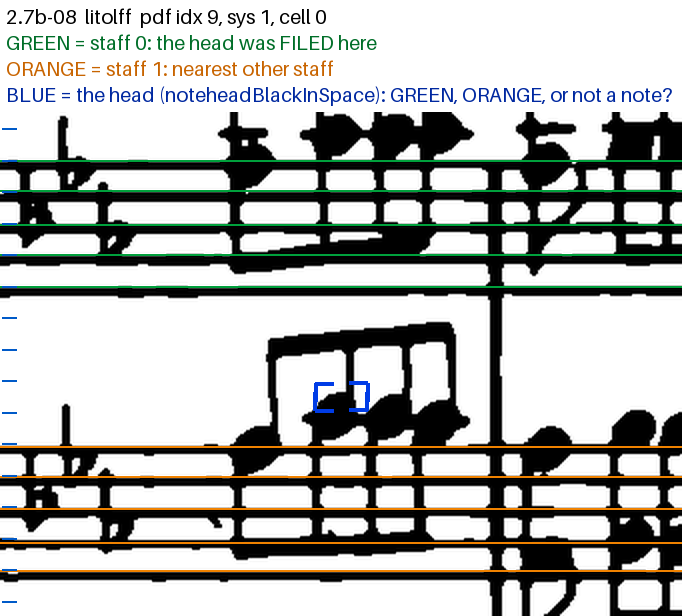
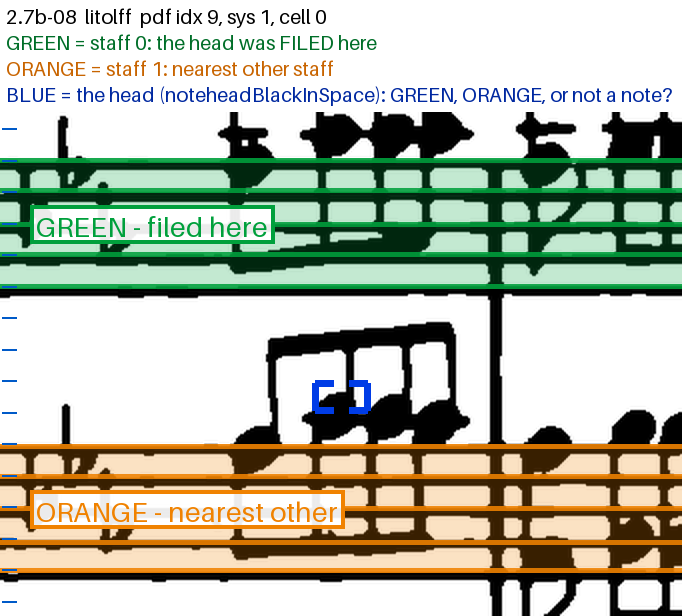
2.7b crops re-rendered legibly (staff bands + labels; same 24 heads, same seed) + a numbered contact sheet: #01-16 Litolff 2.7b-01..16, #17-24 Brahms 2.7b-brk-01..08

diff --git a/benchmarks/omr-accidental-2026-09/probe/crop_nearer_staff.py b/benchmarks/omr-accidental-2026-09/probe/crop_nearer_staff.py
@@ -189,13 +189,29 @@ def main() -> int:
         Z = 2
         crop = im.crop((cx0, cy0, cx1, cy1)).resize(
             ((cx1 - cx0) * Z, (cy1 - cy0) * Z), Image.LANCZOS)
+        # ⚠ Sean, 2026-09-28: 2-px coloured lines were unreadable. Each
+        # staff is a TRANSLUCENT BAND with thick lines and a large boxed
+        # label inside it (the o26b style, `crop_losers_2_6b.make_crop`).
+        overlay = Image.new("RGBA", crop.size, (0, 0, 0, 0))
+        od = ImageDraw.Draw(overlay)
+        big = ImageFont.load_default(size=max(28, int(sp_f * Z * 0.8)))
+        for lines_, rgb, label in ((lf, (0, 160, 60), "GREEN - filed here"),
+                                   (ln, (240, 130, 0), "ORANGE - nearest other")):
+            if not lines_:
+                continue
+            top, bot = (min(lines_) - cy0) * Z, (max(lines_) - cy0) * Z
+            od.rectangle([0, top, crop.width, bot], fill=rgb + (60,))
+            for ly in lines_:
+                od.line([(0, (ly - cy0) * Z), (crop.width, (ly - cy0) * Z)],
+                        fill=rgb + (230,), width=5)
+            ty = max(0, top + (bot - top) / 2 - big.size / 2)
+            tw = od.textlength(label, font=big)
+            od.rectangle([30, ty - 4, 30 + tw + 12, ty + big.size + 6],
+                         fill=(255, 255, 255, 235), outline=rgb + (255,),
+                         width=4)
+            od.text((36, ty), label, fill=rgb + (255,), font=big)
+        crop = Image.alpha_composite(crop.convert("RGBA"), overlay).convert("RGB")
         dr = ImageDraw.Draw(crop)
-        for ly in lf:
-            dr.line([(0, (ly - cy0) * Z), (crop.width, (ly - cy0) * Z)],
-                    fill=(0, 160, 60), width=2)
-        for ly in ln:
-            dr.line([(0, (ly - cy0) * Z), (crop.width, (ly - cy0) * Z)],
-                    fill=(240, 130, 0), width=2)
         y, k = (min(lf) - cy0) * Z, 0
         step = sp_f * Z
         while y > 0:
@@ -208,8 +224,8 @@ def main() -> int:
         arm = max(8, int((bx1 - bx0) * 0.35))
         for (x, yy, dx, dy) in ((bx0, by0, 1, 1), (bx1, by0, -1, 1),
                                 (bx0, by1, 1, -1), (bx1, by1, -1, -1)):
-            dr.line([(x, yy), (x + dx * arm, yy)], fill=(0, 60, 230), width=4)
-            dr.line([(x, yy), (x, yy + dy * arm)], fill=(0, 60, 230), width=4)
+            dr.line([(x, yy), (x + dx * arm, yy)], fill=(0, 60, 230), width=7)
+            dr.line([(x, yy), (x, yy + dy * arm)], fill=(0, 60, 230), width=7)
         band_h = 112
         out_im = Image.new("RGB", (crop.width, crop.height + band_h), "white")
         out_im.paste(crop, (0, band_h))
